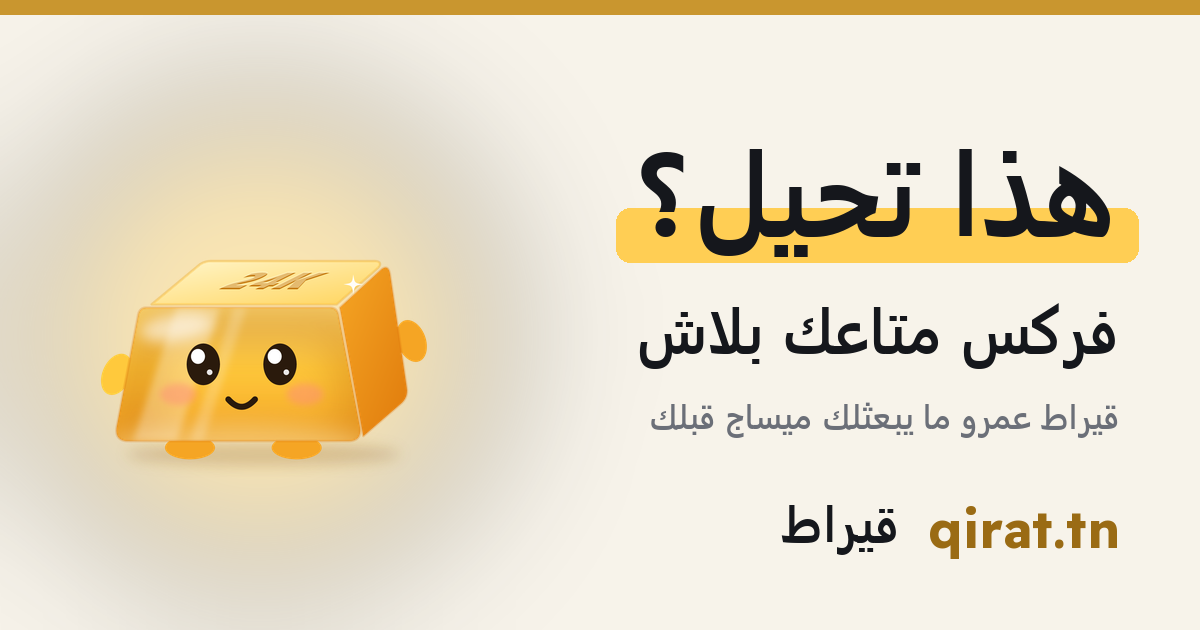
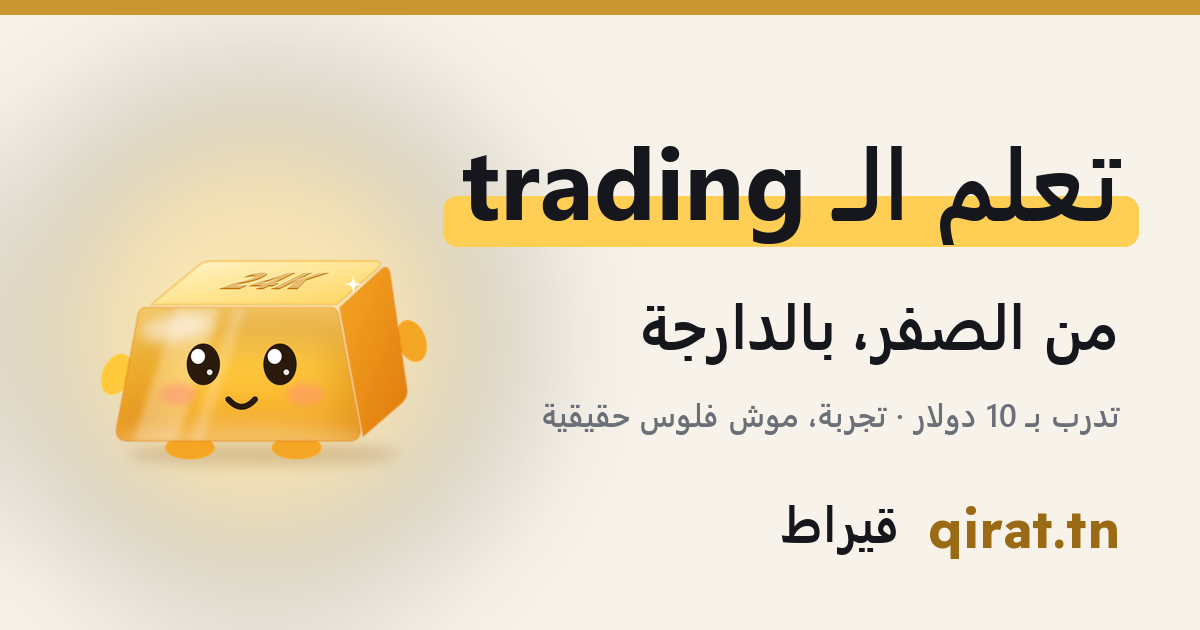
Make the link preview promise trading from zero, like the new first screen
The title, description and preview picture shown when qirat.tn is pasted in
WhatsApp, Telegram or Facebook still advertised the Scam check. They now say
what the videos and the start-here strip say: learn trading from zero, in
Darija, with 2-minute lessons and a 10-dollar practice wallet.

Changed region(s): [[0.37, 0.2111, 0.9558, 0.4222], [0.5242, 0.4825, 0.925, 0.6032], [0.4317, 0.6333, 0.925, 0.6937]]

diff --git a/frontend/index.html b/frontend/index.html
@@ -9,7 +9,7 @@
     <meta name="theme-color" content="#f6f4ef" />
     <meta
       name="description"
-      content="قيراط: الصق ميساج WhatsApp ولا Telegram، لينك ولا اسم منصّة، وشوف علامات الخطر. بلاش. · Qirat : collez un message, un lien ou un nom de plateforme et voyez les signaux d’arnaque. Gratuit, en darija, français et anglais."
+      content="قيراط يعلّمك الـ trading من الصفر: دروس في دقيقتين، wallet تجريبي فيه 10 دولار بالسوامات الحقيقية، والـ risk متاع كل coin. بلاش. · Qirat : apprenez le trading de zéro avec des leçons de 2 minutes, un portefeuille d’entraînement de 10 $ aux prix réels et le risque de chaque coin. Gratuit, en darija, français et anglais."
     />
     <!-- What WhatsApp, Telegram and Facebook show when the address is pasted.
          The audience is Tunisian, so the preview speaks Darija first.
@@ -20,19 +20,19 @@
     <meta property="og:locale" content="ar_TN" />
     <meta property="og:locale:alternate" content="fr_FR" />
     <meta property="og:locale:alternate" content="en_US" />
-    <meta property="og:title" content="قيراط · هذا تحيّل؟ فركس الميساج بلاش" />
+    <meta property="og:title" content="قيراط · تعلّم الـ trading من الصفر، بالدارجة" />
     <meta
       property="og:description"
-      content="الصق ميساج WhatsApp ولا Telegram، لينك ولا اسم منصّة. قيراط يورّيك علامات الخطر. عمرو ما يبعثلك هو الأوّل، وعمرو ما يطلب منك فلوس."
+      content="دروس في دقيقتين، wallet تجريبي فيه 10 دولار بالسوامات الحقيقية، والـ risk متاع كل coin. بلاش في فترة التجربة. قيراط عمرو ما يقلّك اشري ولا بيع."
     />
     <meta property="og:image" content="https://qirat.tn/og-image.png" />
     <meta property="og:image:width" content="1200" />
     <meta property="og:image:height" content="630" />
-    <meta property="og:image:alt" content="قيراط: هذا تحيّل؟ فركس متاعك بلاش. qirat.tn" />
+    <meta property="og:image:alt" content="قيراط: تعلّم الـ trading من الصفر، بالدارجة. qirat.tn" />
     <meta name="twitter:card" content="summary_large_image" />
     <meta name="twitter:image" content="https://qirat.tn/og-image.png" />
     <link rel="canonical" href="https://qirat.tn/" />
-    <title>Qirat · قيراط · Scam ولا لا؟</title>
+    <title>Qirat · قيراط · تعلّم الـ trading من الصفر</title>
   </head>
   <body>
     <div id="root"></div>

diff --git a/marketing/assets/brand/og_image.py b/marketing/assets/brand/og_image.py
@@ -5,11 +5,11 @@ Usage: python og_image.py <repo_root>
 Writes frontend/public/og-image.png. Run with the qirat-media environment
 (Pillow, arabic_reshaper, python-bidi) and PYTHONIOENCODING=utf-8.
 
-Every Darija line here already exists in the app or in a posted video, so
-nothing on the image is new wording:
-  - «هذا تحيّل؟»                       the Scam check title
-  - «فركس متاعك بلاش»                  the line under a shared result
-  - «قيراط عمرو ما يبعثلك ميساج قبلك»  the promise from the scam quiz
+The image carries the one promise the videos make (trading from zero, in Darija).
+The Darija comes from the app where possible:
+  - «تعلّم»                                  the Learn tab
+  - «من الصفر، بالدارجة»                     the "start here" strip on Learn
+  - «تدرّب بـ 10 دولار» · «تجربة، موش فلوس حقيقية»   the Practice title and its label
 """
 import os
 import sys
@@ -61,14 +61,14 @@ bar = bar.resize((size, int(bar.height * size / bar.width)), Image.LANCZOS)
 im.alpha_composite(bar, (60, (H - bar.height) // 2 + 6))
 
 # headline on a gold marker stroke
-head_font = ImageFont.truetype(AR_BOLD, 118)
-head = ar("هذا تحيّل؟")
+head_font = ImageFont.truetype(AR_BOLD, 100)
+head = ar("تعلّم الـ trading")
 hw = d.textlength(head, font=head_font)
-d.rounded_rectangle((RIGHT - hw - 18, 208, RIGHT + 18, 262), radius=14, fill=MARKER)
-draw_right(d, head, 108, head_font, INK)
+d.rounded_rectangle((RIGHT - hw - 18, 196, RIGHT + 18, 246), radius=14, fill=MARKER)
+draw_right(d, head, 112, head_font, INK)
 
-draw_right(d, ar("فركس متاعك بلاش"), 286, ImageFont.truetype(AR_BOLD, 62), INK)
-draw_right(d, ar("قيراط عمرو ما يبعثلك ميساج قبلك"), 392, ImageFont.truetype(AR_SEMI, 34), MUTED)
+draw_right(d, ar("من الصفر، بالدارجة"), 282, ImageFont.truetype(AR_BOLD, 62), INK)
+draw_right(d, ar("تدرّب بـ 10 دولار · تجربة، موش فلوس حقيقية"), 392, ImageFont.truetype(AR_SEMI, 32), MUTED)
 
 # the address, large enough to read in a small preview
 url_font = latin(52, 700)
